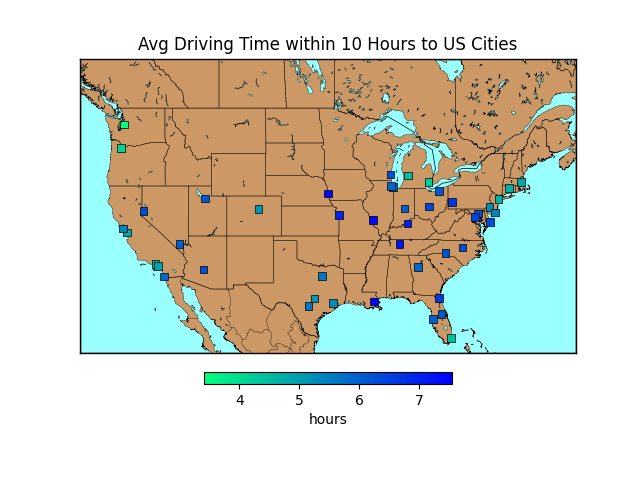
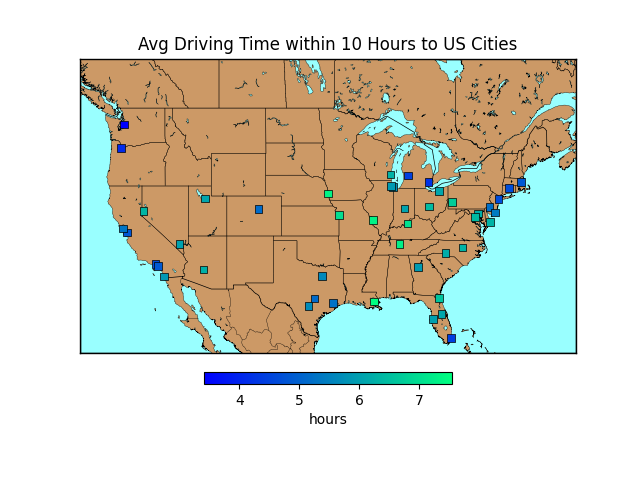
flip colorbar

diff --git a/TravelDistanceMap2/duration_map.py b/TravelDistanceMap2/duration_map.py
@@ -6,7 +6,7 @@ from mpl_toolkits.basemap import Basemap
 import matplotlib.pyplot as plt
 import matplotlib.colors as colors
 
-DURATION_LIMIT = 10 # hours
+DURATION_LIMIT = 20 # hours
 
 durations = OrderedDict()
 conv_center_durations = OrderedDict()
@@ -61,7 +61,7 @@ map.drawstates(linewidth=0.25, zorder=1)
 x,y = map([float(conv_center_coords[key][1]) for key in conv_center_teams.keys()],
           [float(conv_center_coords[key][0]) for key in conv_center_teams.keys()])
 norm = colors.Normalize(list(conv_center_teams.values())[0], list(conv_center_teams.values())[-1])
-map.scatter(x, y, c=list(conv_center_teams.values()), s=30, marker='s', cmap='winter', norm=norm, edgecolors='k', linewidth=0.5, zorder=999)
+map.scatter(x, y, c=list(conv_center_teams.values()), s=30, marker='s', cmap='winter_r', norm=norm, edgecolors='k', linewidth=0.5, zorder=999)
 plt.colorbar(label='teams', cmap='winter_r', norm=norm, location='bottom', shrink=0.5, pad=0.05, format='%d')
 plt.title('FRC Teams Within {} Hours Driving to US Cities'.format(DURATION_LIMIT))
 plt.savefig('TravelDistanceMap2/map_teams_{}.png'.format(DURATION_LIMIT))
@@ -77,7 +77,7 @@ map.drawstates(linewidth=0.25, zorder=1)
 x,y = map([float(conv_center_coords[key][1]) for key in conv_center_durations.keys()],
           [float(conv_center_coords[key][0]) for key in conv_center_durations.keys()])
 norm = colors.Normalize(list(conv_center_durations.values())[0], list(conv_center_durations.values())[-1])
-map.scatter(x, y, c=list(conv_center_durations.values()), s=30, marker='s', cmap='winter_r', norm=norm, edgecolors='k', linewidth=0.5, zorder=999)
+map.scatter(x, y, c=list(conv_center_durations.values()), s=30, marker='s', cmap='winter', norm=norm, edgecolors='k', linewidth=0.5, zorder=999)
 plt.colorbar(label='hours', cmap='winter', norm=norm, location='bottom', shrink=0.5, pad=0.05, format='%d')
 plt.title('Avg Driving Time within {} Hours to US Cities'.format(DURATION_LIMIT))
 plt.savefig('TravelDistanceMap2/map_limit_{}.png'.format(DURATION_LIMIT))
